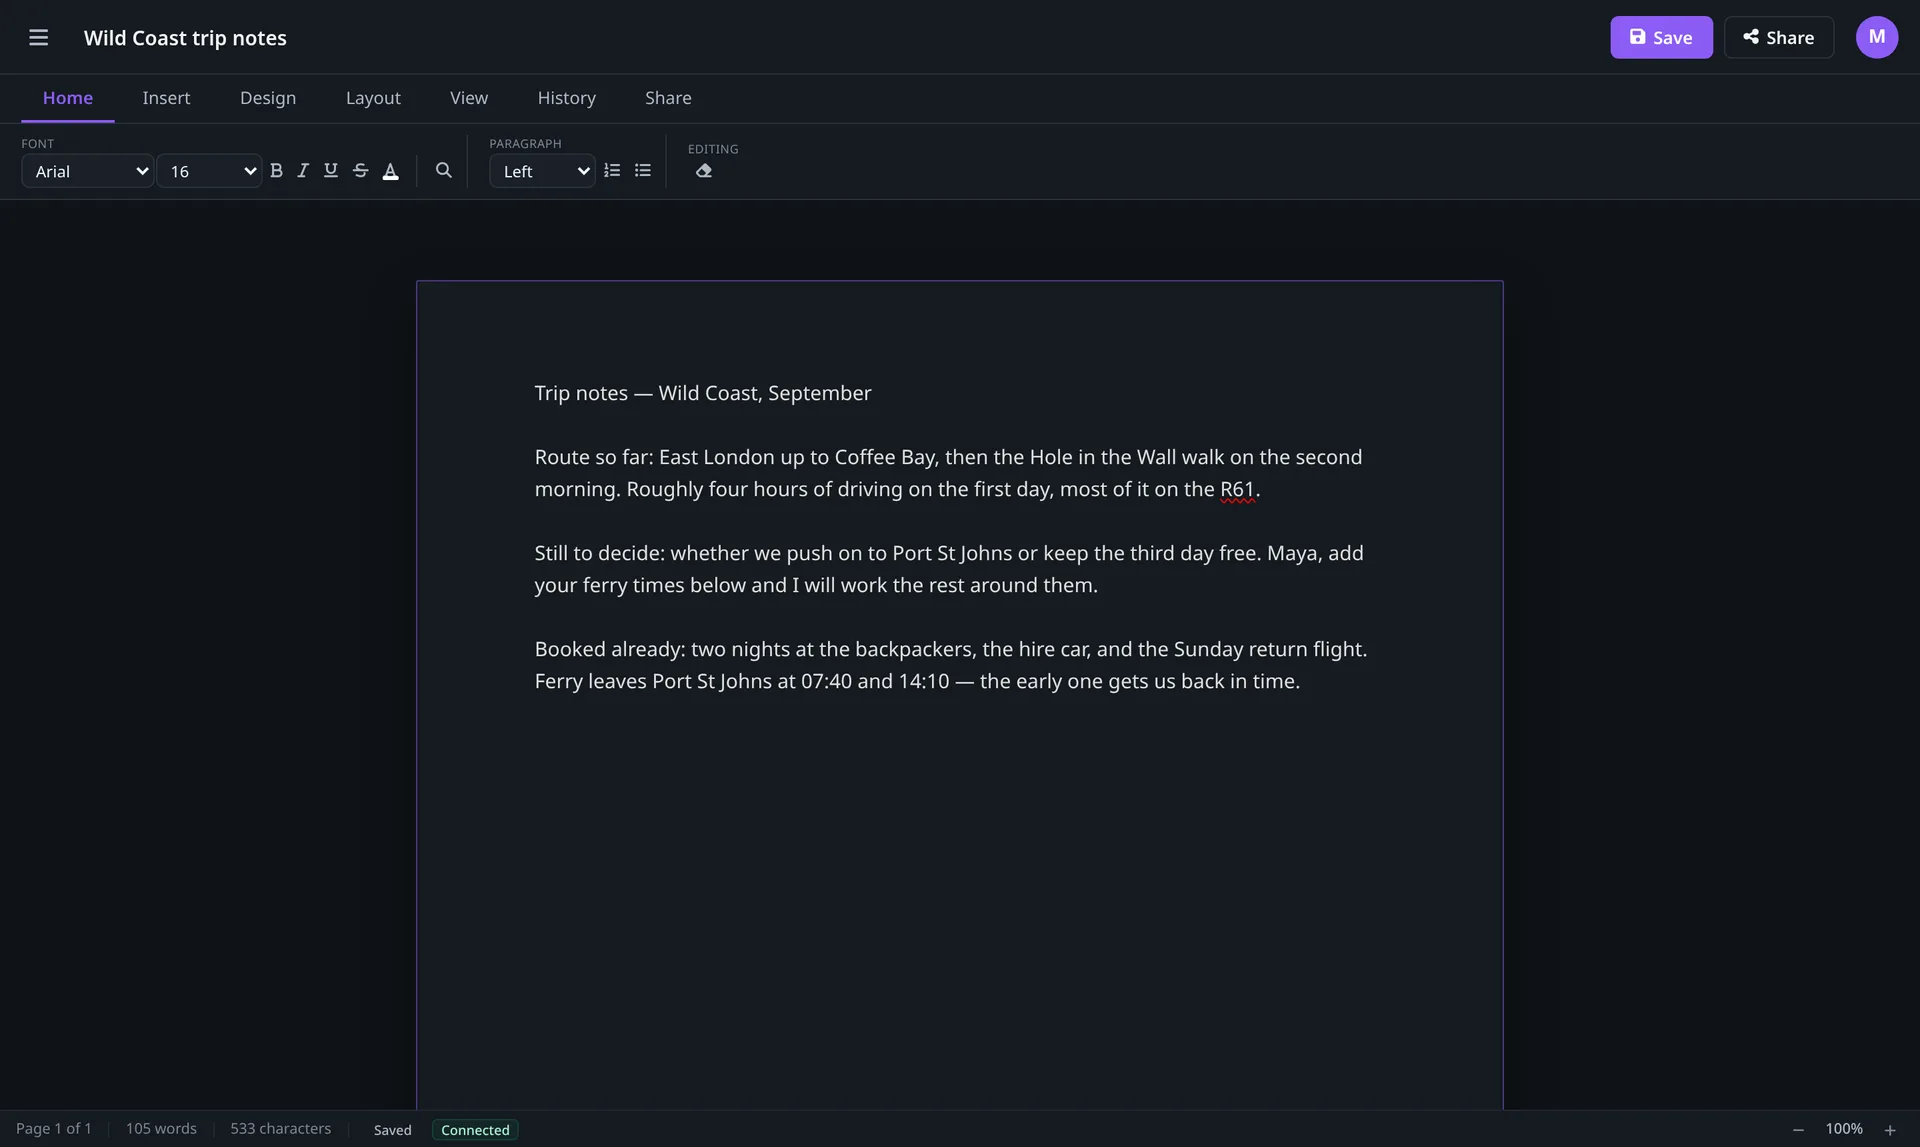
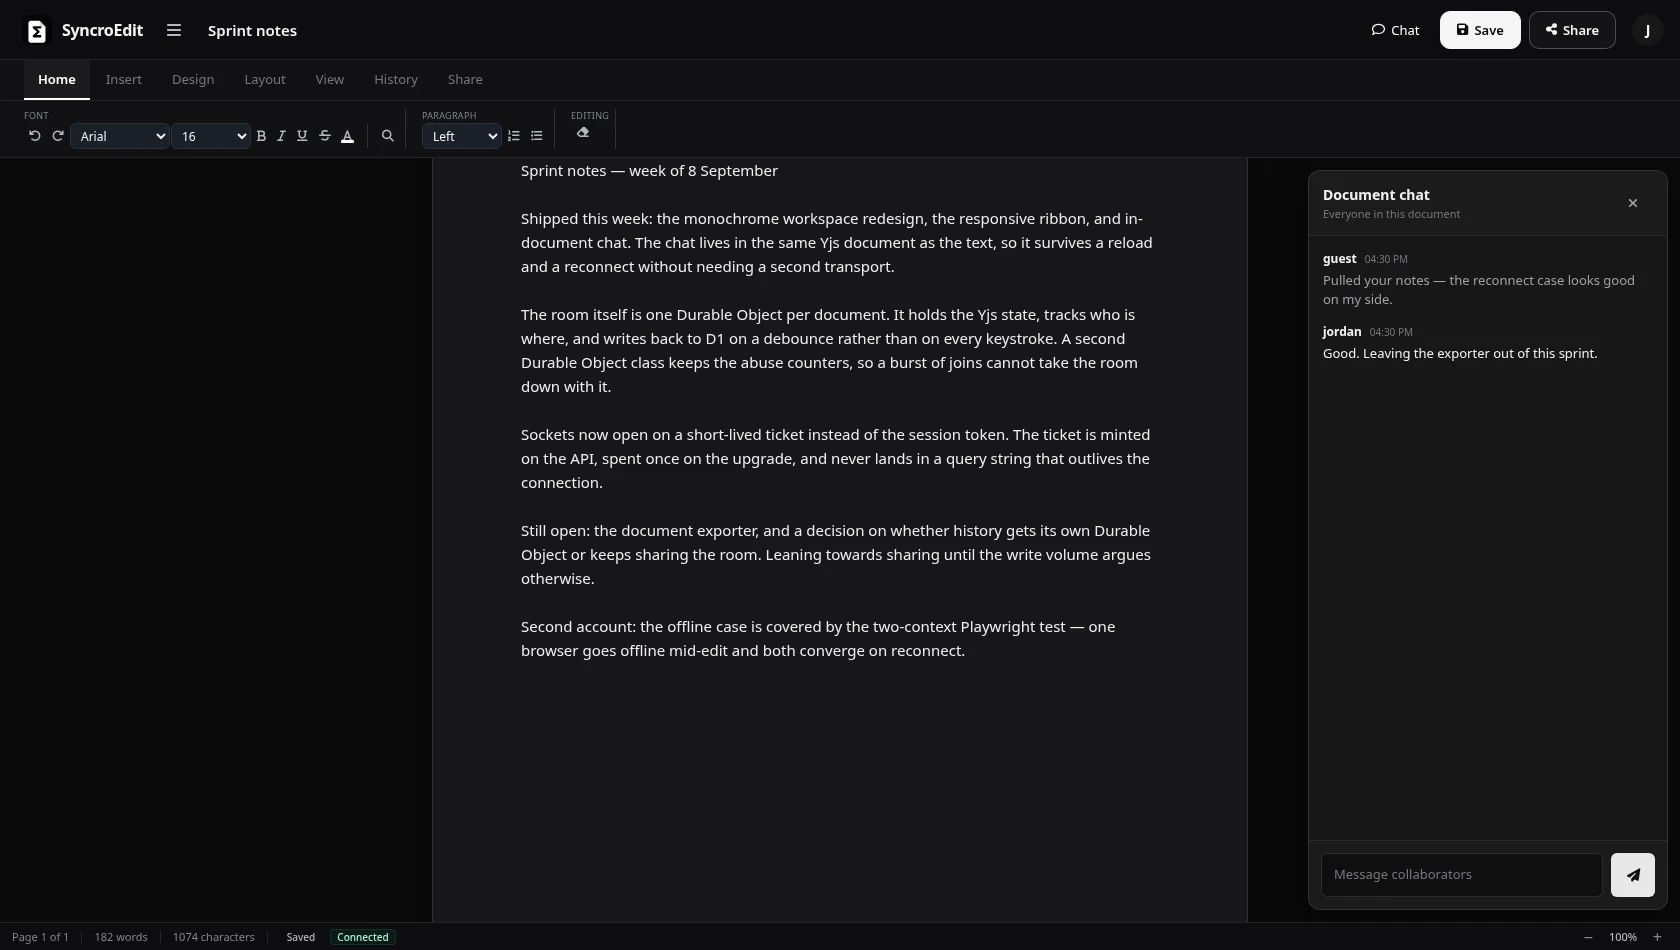
Update SyncroEdit for its August rebuild, run Codexa on the local route (#7)
SyncroEdit shipped a major update between 17 and 23 August — the
monochrome workspace redesign, in-document chat, and the responsive
workspace pass — all of it after the "Jul 2026" this entry claimed. The
screenshot was the old purple-accented editor with no chat panel, and
the copy read as "a document editor with multiplayer typing" when the
repo is now a signed-into workspace with email-verified auth, a
document library, a ribbon that adapts down to a phone, offline
recovery, sharing and history.

The new capture is the editor under the ribbon, holding paragraphs two
accounts typed into one document, with the chat panel open beside them
and the Saved/Connected status bar in frame. It was taken by driving
SyncroEdit's own Playwright e2e harness, so both accounts were created
by the app's real signup and email-verification flow against a
throwaway local database. The redesigned UI is monochrome, so it also
sits with the palette instead of fighting it.

The copy moves the new capability into `summary` and the checkable
engineering into `proof`: the room is still one Durable Object per
document, but a second Durable Object class now holds the abuse
counters, and the socket opens on a short-lived ticket rather than the
session token. The two-user claim is what tests/e2e/collaboration.test.js
actually drives — two contexts, one taken offline mid-edit, both
asserted to converge. Quill 2 joins the stack because it is the editor
surface, not an implementation detail.
[…]

diff --git a/src/content.js b/src/content.js
@@ -5,11 +5,14 @@
  * engineering. What's left is the stuff that survives scrutiny: what the thing
  * actually does, whether it shipped, and what the training logs recorded.
  *
- *  - npm figures: registry.npmjs.org (verified 2026-07-30)
+ *  - npm figures: registry.npmjs.org (verified 2026-09-04)
  *  - model numbers: logs/codexa-900m-base-v1/**, logs/codexa-900m-sft-v2/**,
  *    and configs/1b.yaml in the LLM repo
  *  - screenshots in /public/shots: captured from these apps running locally
  *  - the Codexa startup screen: read out of the Codexa source, see `startup`
+ *  - SyncroEdit's architecture: wrangler.toml bindings and src-worker/ in
+ *    SyncroEdit; the two-user collaboration claim is what
+ *    tests/e2e/collaboration.test.js actually drives
  *  - Cue's version and packaging: package.json and the dist:linux script in
  *    Cue-Helper; the provider and no-API-key claims are covered by its
  *    tests/unit suite, security-validation.test.ts among them
@@ -45,12 +48,21 @@ export const navItems = [
  * Codexa's startup screen, stored as parts rather than pre-drawn box art so the
  * component redraws the borders and the character grid can't drift.
  *
- * Read out of the Codexa v1.0.8 source on 2026-07-30:
+ * Read out of the Codexa v1.0.26 source on 2026-09-04:
  *   logo      src/ui/render/logoVariants.ts      — CODEXA_WORDMARK, 6 rows, 49 cols each
  *   layout    src/ui/timeline/timelineMeasure.ts — meta sits right of the logo on a
  *             2-column gap, vertically centred, so it starts on logo row 1
  *   composer  src/ui/chrome/BottomComposer.tsx   — round border, "❯ " prefix, placeholder
- *   footer    src/ui/render/runtimeDisplay.ts    — "Context: 0 / ~200K" at zero tokens
+ *   footer    src/ui/render/runtimeDisplay.ts    — buildActiveRuntimeDisplay() at zero tokens
+ *
+ * The screen shows the local route, so the footer is derived rather than copied
+ * from the Claude Code one it used to show. runtimeDisplay.ts drops the
+ * reasoning tag when providerId is "local" — local runtimes own that setting and
+ * Codexa cannot adjust it — so there is no "(Low)" after the model, and the
+ * model is the raw id LM Studio reports rather than a prettified name. The "~"
+ * is gone with it: it marks an *estimated* context length, and a local model's
+ * length comes back from /v1/models as verified. formatContextCompact() then
+ * rounds 131,072 to "131K".
  *
  * No status row: getStatusLine() returns null while idle. "✧ Claude ready" is the
  * responding state, so putting it on a startup screen would be quietly false.
@@ -75,11 +87,11 @@ export const startup = {
   ],
   // Three tones by row index, mirroring logoPrimary / logoSecondary / logoShadow.
   logoTone: [1, 1, 2, 2, 3, 3],
-  meta: ["Codexa v1.0.8", "Workspace: Codexa", "Provider: Claude Code CLI"],
+  meta: ["Codexa v1.0.26", "Workspace: Codexa", "Provider: Local"],
   prompt: "❯ ",
   placeholder: "Ask Codexa, run !shell, or use /command",
-  footerLeft: "Claude Code CLI / Sonnet 4.6 (Low)",
-  footerRight: "Context: 0 / ~200K",
+  footerLeft: "Local / qwen/qwen3.8-27b",
+  footerRight: "Context: 0 / 131K",
 };
 
 /**
@@ -124,39 +136,39 @@ export const projects = [
   {
     id: "syncroedit",
     title: "SyncroEdit",
-    year: "Dec 2025 — Jul 2026",
+    year: "Dec 2025 — Aug 2026",
     role: "Real-time collaborative editor",
     summary:
-      "A document editor you open in a browser. Several people can be in the same document at once, each typing wherever they like — every keystroke lands on the other screens, with no save button and no one overwriting anyone.",
+      "A document workspace you sign into. Several people can be in the same document at once, each typing wherever they like — every keystroke lands on the other screens, alongside a chat panel for the conversation around the text, and no one overwrites anyone.",
     proof:
-      "Yjs CRDTs over WebSockets. A Durable Object owns each room, keeps its state in sync, tracks cursors, and persists to D1; Hono handles routing and auth on Cloudflare.",
-    stack: ["Yjs / CRDT", "Durable Objects", "Cloudflare D1", "Hono", "WebSockets"],
+      "Yjs CRDTs over WebSockets. A Durable Object owns each room, keeps its state in sync, relays presence, and persists to D1 on a debounce; a second Durable Object class holds the abuse counters, and the socket opens on a short-lived ticket rather than the session token. Hono routes and authenticates on Cloudflare, with email-verified signup. A Playwright test drives two browsers through one document, takes one offline mid-edit, and asserts both converge.",
+    stack: ["Yjs / CRDT", "Quill 2", "Durable Objects", "Cloudflare D1", "Hono", "WebSockets"],
     shot: "/shots/syncroedit.webp",
     shotAlt:
-      "A SyncroEdit document open in the editor, holding text typed by two people in the same room",
+      "A SyncroEdit document open in the editor, under the ribbon: paragraphs typed by two accounts in the same room, and the document chat panel open beside them holding a message from each",
     caption: "Screenshot of the app running locally.",
     repo: "https://github.com/golba98/SyncroEdit",
   },
   {
     id: "codexa",
     title: "Codexa",
-    year: "Apr 2026 — Jul 2026",
+    year: "Apr 2026 — Sep 2026",
     role: "Terminal UI for coding agents",
     summary:
-      "One terminal for Codex, Claude Code, Gemini, and local models. History, workspace locks, TOML config, themes, and slash commands. TypeScript, Bun, Ink.",
+      "One terminal for the Codex, Claude Code, Gemini, Mistral Vibe, and Antigravity CLIs, and for local models. History, workspace locks, TOML config, themes, and slash commands. TypeScript, Bun, Ink.",
     proof:
-      "On npm as @golba98/codexa. Eight releases since May 2026; now v1.0.8. Four backends, each with auth, streaming, and cancellation.",
+      "On npm as @golba98/codexa. Twenty-five releases since May 2026; now v1.0.26. Six shipped provider routes — those five CLIs plus any OpenAI-compatible local server — with two Codexa Native runtimes held behind a dev build.",
     stack: ["TypeScript", "Bun", "Ink", "npm"],
     npm: {
       name: "@golba98/codexa",
-      version: "1.0.8",
+      version: "1.0.26",
       url: "https://www.npmjs.com/package/@golba98/codexa",
       install: "npm install -g @golba98/codexa",
     },
     startup,
     startupCompact,
     caption:
-      "Recreated from the Codexa v1.0.8 source — logo from logoVariants.ts, layout from timelineMeasure.ts, composer from BottomComposer.tsx. Not a screenshot.",
+      "Recreated from the Codexa v1.0.26 source — logo from logoVariants.ts, layout from timelineMeasure.ts, composer from BottomComposer.tsx. Not a screenshot.",
     repo: "https://github.com/golba98/Codexa",
   },
   {
@@ -252,9 +264,9 @@ export const lossCurve = {
 
 export const repoBlurbs = {
   SyncroEdit:
-    "Real-time collaborative editor. Yjs CRDTs over WebSockets, coordinated by Cloudflare Durable Objects.",
+    "Collaborative document workspace with in-document chat. Yjs CRDTs over WebSockets, coordinated by Cloudflare Durable Objects.",
   Codexa:
-    "Terminal UI for coding agents — Codex, Claude Code, Gemini, and local models. Published on npm.",
+    "Terminal UI for coding agents — the Codex, Claude Code, Gemini, Mistral Vibe, and Antigravity CLIs, and local models. Published on npm.",
   "LLM-Codexa-v1":
     "A 934M-parameter decoder-only transformer trained from scratch in PyTorch, with native conversational SFT inference.",
   Movie_App:
